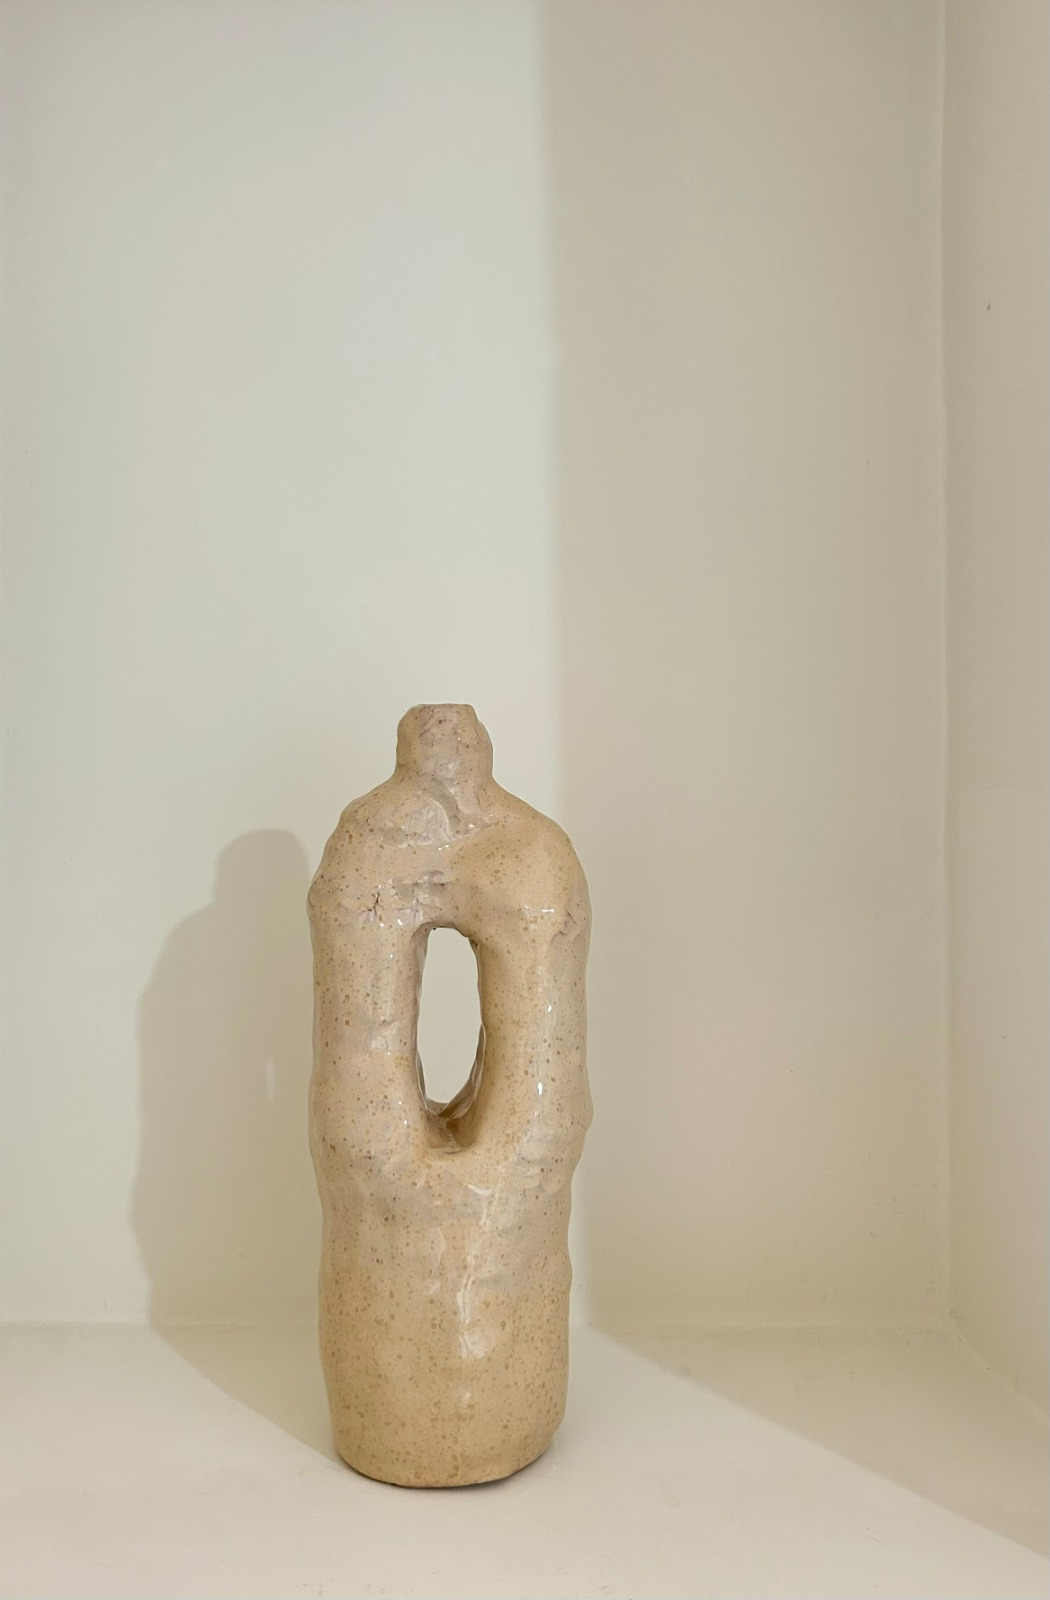
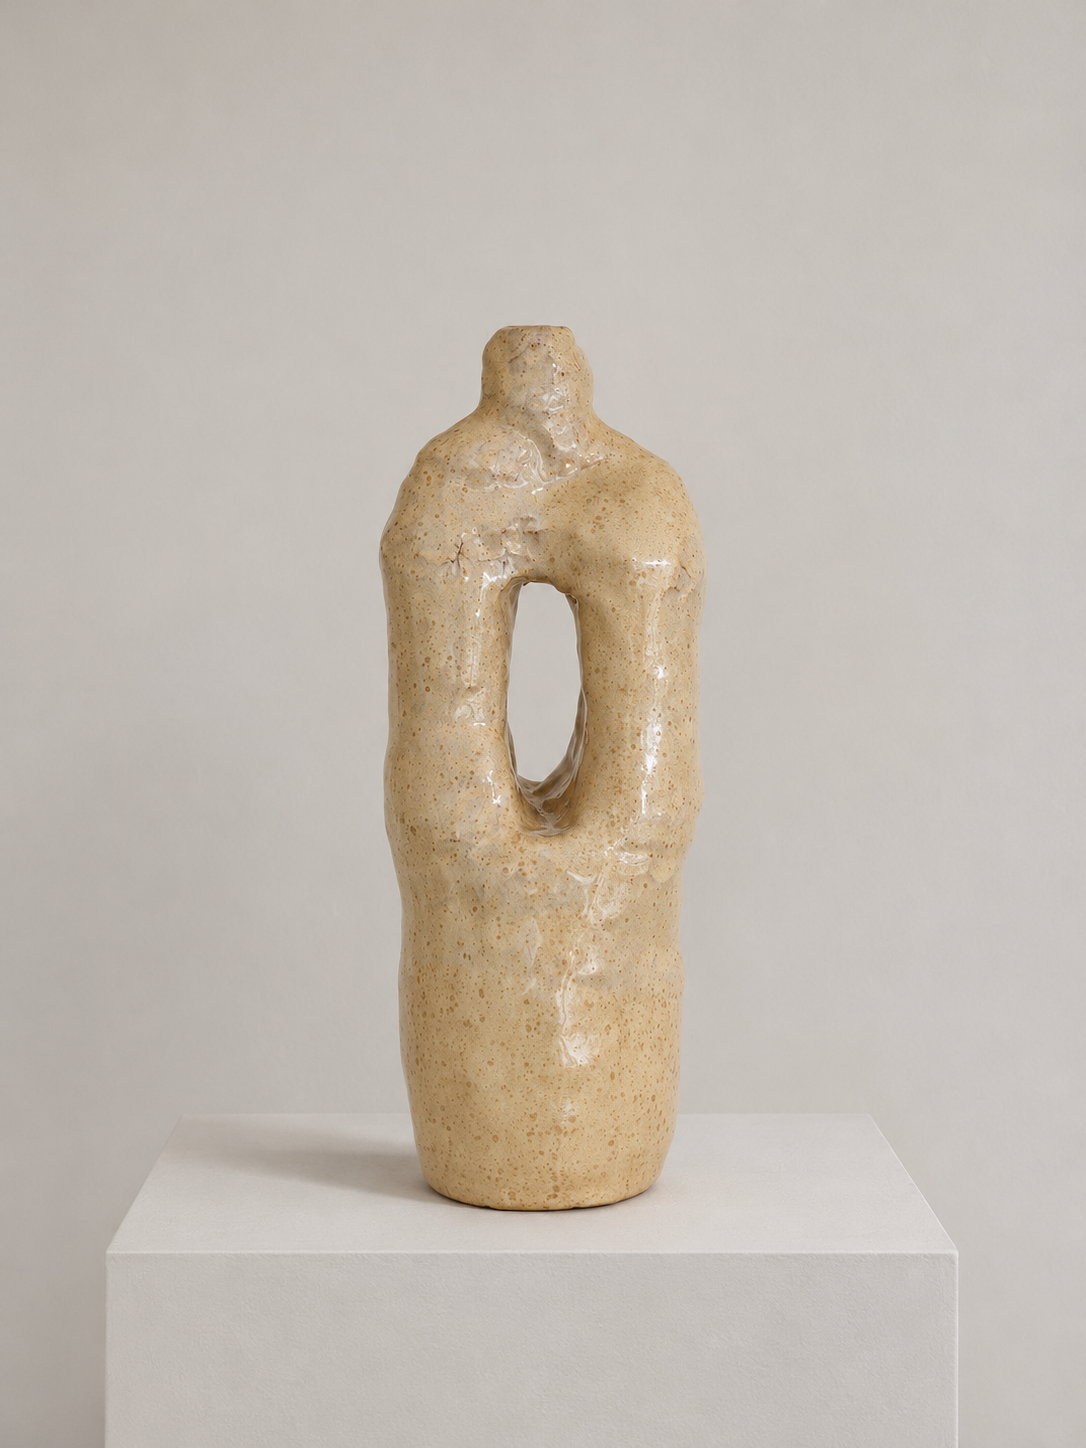
Aggiunta nuova opera e corrette immagini

diff --git a/src/data/works.ts b/src/data/works.ts
@@ -17,6 +17,11 @@ import how from '@/assets/how.jpg';
 
 import who from '@/assets/who.jpg';
 
+import anatomy from '@/assets/anatomy.jpg';
+import anatomy1 from '@/assets/anatomy1.jpg';
+import anatomy2 from '@/assets/anatomy2.jpg';
+import anatomy3 from '@/assets/anatomy3.jpg';
+
 export interface Work {
   slug: string;
   title: string;
@@ -32,6 +37,23 @@ export interface Work {
 }
 
 export const works: Work[] = [
+
+  {
+    slug: 'anatomy-of-a-landfall',
+    title: 'Anatomy of a Landfall',
+    year: '2026',
+    medium: 'White ceramic',
+    themes: ['unconscious', 'trace', 'body', 'ritual'],
+    description:
+      'The work remains open-ended. The figure continues to travel with me. I do not yet know which place, for her, will become a homecoming.',
+    longDescription:
+      'The Odyssey has accompanied me for years, and what I keep searching for is not Ithaca. It is that subtle tension between the pull of returning home and the desire to venture beyond it. I brought this figure to Dexa Bay, where myth places Odysseus’s landing. I planted it in the earth as a ritual gesture, allowing the landscape to complete the work.',
+    image: anatomy,
+    images: [anatomy2, anatomy3, anatomy3],
+    orientation: 'vertical',
+    featured: true,
+  },
+
   {
     slug: 'le-braccia-di-milo',
     title: 'Le braccia di Milo',
@@ -117,9 +139,21 @@ export const works: Work[] = [
     orientation: 'vertical',
     featured: true,
   },
+
+
 ];
 
 export const exhibitions = [
+  {
+    year: '2026-present',
+    items: [
+      {
+        title: 'Le braccia di Milo',
+        venue: 'Margutta Home',
+        location: 'Roma, Italy',
+      },
+    ],
+  },
   {
     year: '2024–25',
     items: [
